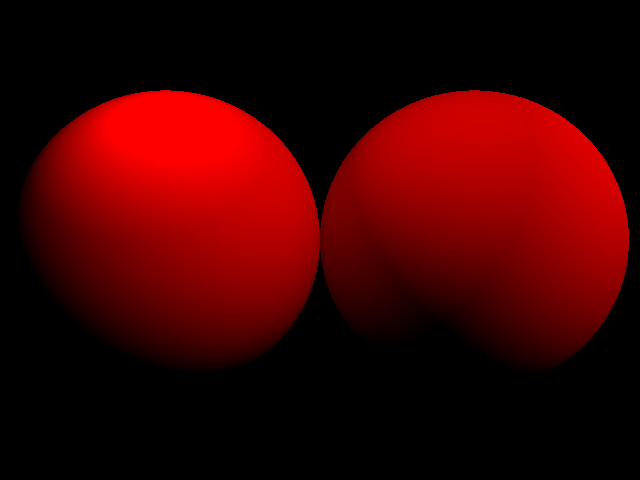
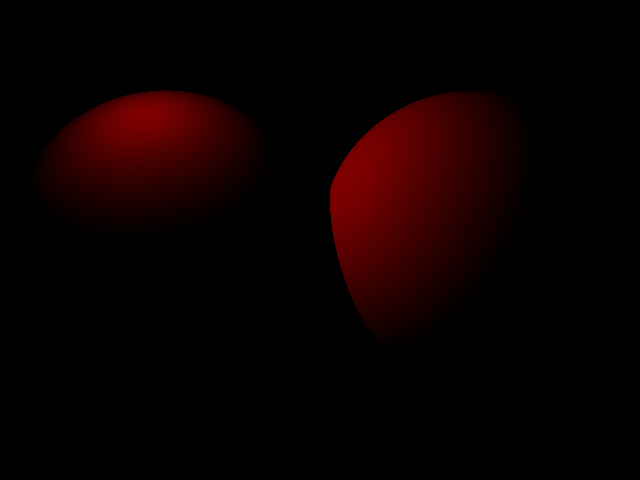
Ombres ajoutées, calcul de la couleur déplacé dans Raytracer.getPixelColor()

diff --git a/src/main/java/RayTracer/geometry/Intersection.java b/src/main/java/RayTracer/geometry/Intersection.java
@@ -74,15 +74,15 @@ public class Intersection {
 	}
 	
 	private boolean isShadowed(DirectionalLight light,Scene scene) {
-		Vector directionToLight = light.getDirection().multByScalar(-1);
-		Ray shadowRay = new Ray(this.position, directionToLight);
+		Vector directionToLight = light.getDirection().normalisation().multByScalar(-1);
+		Ray shadowRay = new Ray(directionToLight.multByScalar(1e-4).add(this.position), directionToLight);
 		Optional<Intersection> shadowSource = scene.findClosestIntersection(shadowRay);		
 		return shadowSource.isPresent();		
 	}
 	
 	private boolean isShadowed(PointLight light, Scene scene) {
-		Vector directionToLight = light.getOrigin().sub(this.position).normalisation().multByScalar(-1);
-		Ray shadowRay = new Ray(this.position, directionToLight);
+		Vector directionToLight = light.getOrigin().sub(this.position).normalisation();
+		Ray shadowRay = new Ray(directionToLight.multByScalar(1e-4).add(this.position), directionToLight);
 		Optional<Intersection> shadowSource = scene.findClosestIntersection(shadowRay);
 		return shadowSource.isPresent();
 	}

diff --git a/src/main/java/RayTracer/RayTracer.java b/src/main/java/RayTracer/RayTracer.java
@@ -30,7 +30,16 @@ public class RayTracer {
 		
 		Optional<Intersection> p = scene.findClosestIntersection(ray);
 		if( p.isPresent()) {
+			
+			Color couleurPoint = new Color(this.scene.getAmbient());
+			for(int l=0; l<this.scene.getLights().size(); l++) {
+				if (! p.get().isShadowed(this.scene.getLights().get(l), this.scene)) {
+					couleurPoint = couleurPoint.add(p.get().computeDiffusionLambert(this.scene.getLights().get(l)));					
+				}				
+			}
+			p.get().setColor(couleurPoint);
 			return p.get().getColor();
+			
 			//return scene.getAmbient();
 		}
 		else {

diff --git a/src/main/java/RayTracer/Scene.java b/src/main/java/RayTracer/Scene.java
@@ -96,16 +96,7 @@ public class Scene {
 			}
 		}
 		
-		if (closestIntersection.isPresent()) {
-			Color couleurPoint = new Color(this.ambient);
-			for(int j=0; j<this.lights.size(); j++) {
-				if (! closestIntersection.get().isShadowed(this.lights.get(j), this))
-					couleurPoint = couleurPoint.add(closestIntersection.get().computeDiffusionLambert(this.lights.get(j)));
-				
-			}
-			closestIntersection.get().setColor(couleurPoint);
-			
-		}
+		
 		return closestIntersection;
 	}
 	
